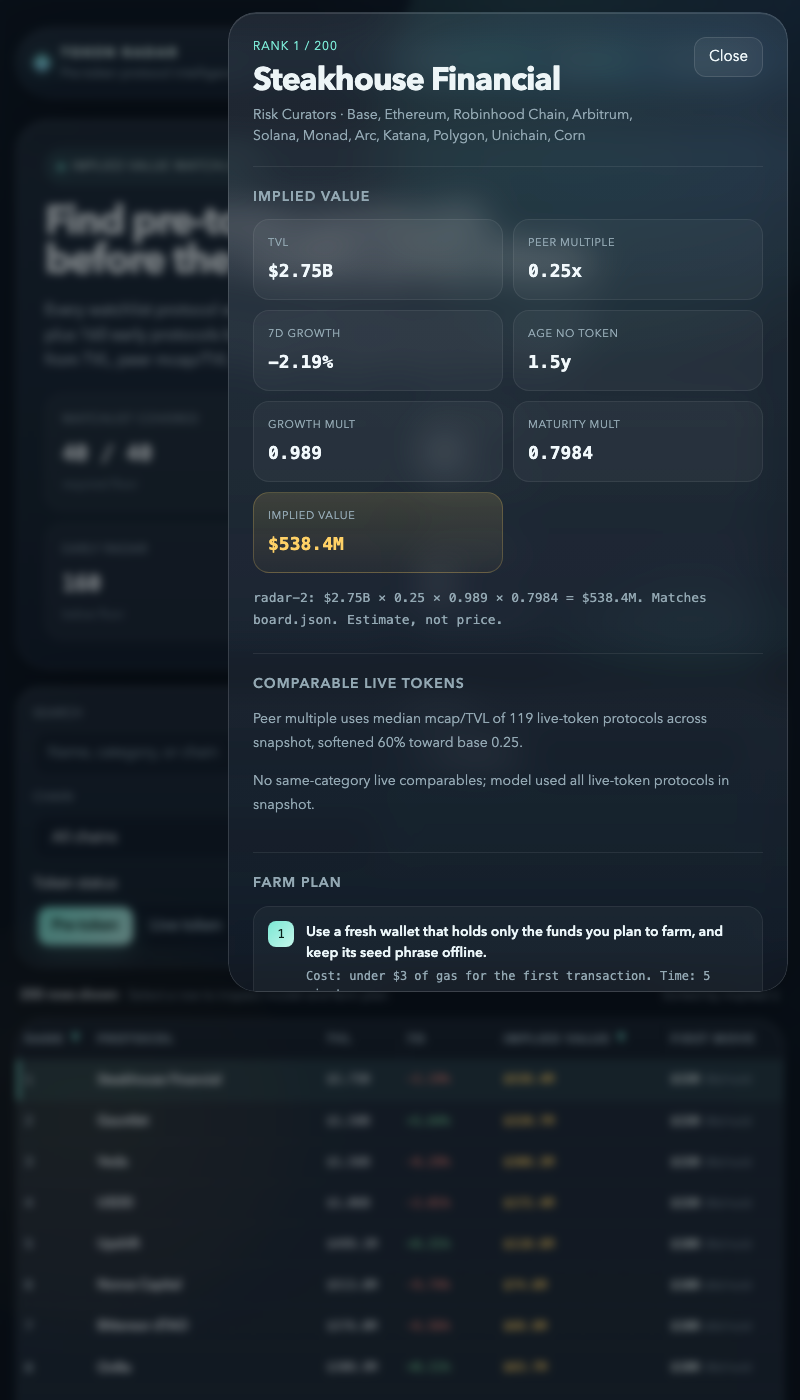
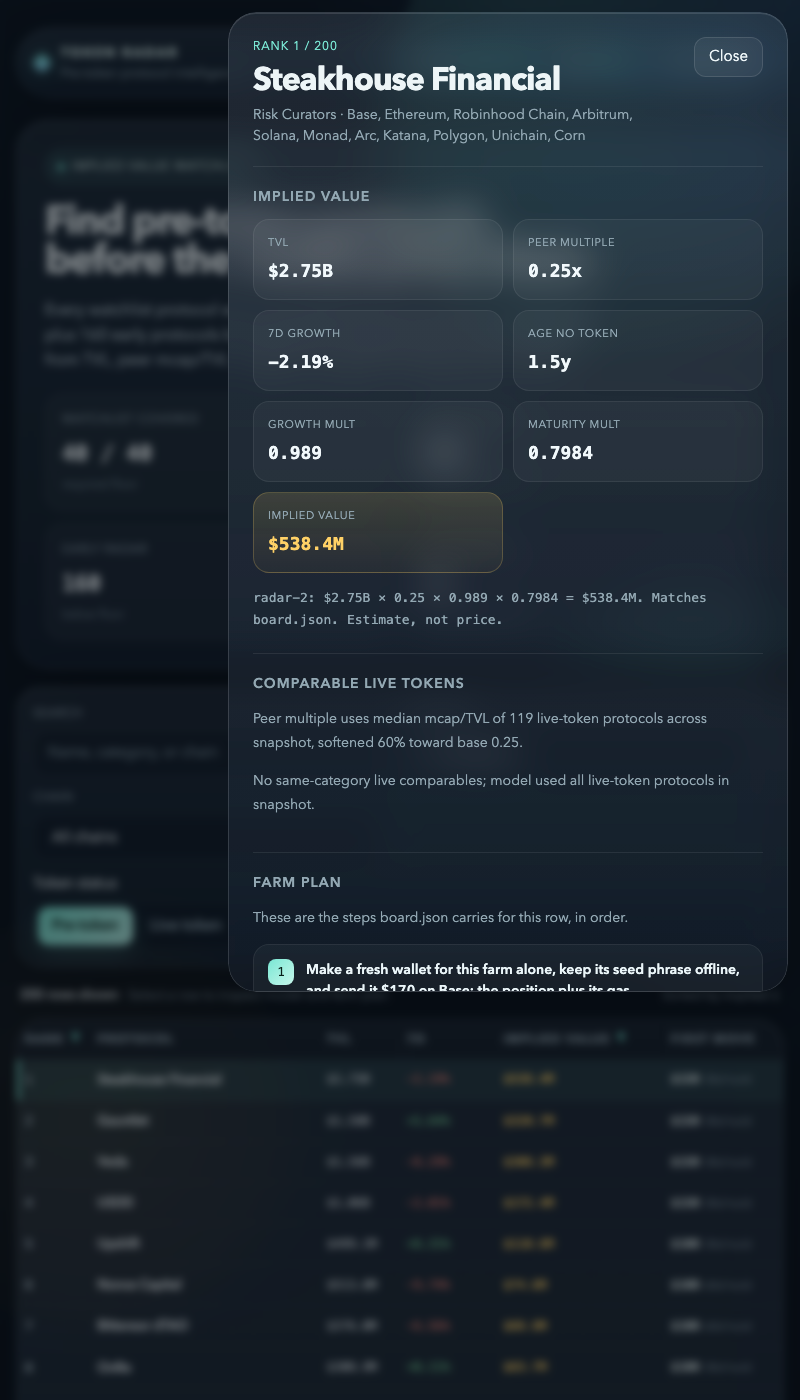
Show the board's own farm plan in the detail modal
The modal rebuilt a generic six-step plan in the page while board.json
already carried a protocol-specific seven-step plan, so the two could
disagree. data.js now passes the board's farm_steps through and the page
renders them as-is, with the duplicate generator removed. Scoring and
board.json are unchanged; the detail screenshot is retaken to match.

Changed region(s): [[0.3125, 0.645, 0.9062, 0.7064]]

diff --git a/dashboard/app.js b/dashboard/app.js
@@ -80,7 +80,6 @@
     return node;
   }
 
-  function chainOf(p) { return p.chains && p.chains.length > 0 ? p.chains[0] : 'its main chain'; }
   function capitalFor(p) {
     if (p.tvl_usd >= 5e9) return 250;
     if (p.tvl_usd >= 1e9) return 150;
@@ -93,41 +92,6 @@
     if (age < 365) return 45;
     return 30;
   }
-  function actionFor(p, capital, chain) {
-    var c = (p.category || '').toLowerCase();
-    var name = p.name;
-    if (c.indexOf('lend') >= 0 || c.indexOf('cdp') >= 0 || c.indexOf('collateral') >= 0) return 'Supply $' + capital + ' of USDC to ' + name + ' on ' + chain + ' and keep the position open.';
-    if (c.indexOf('dex') >= 0 || c.indexOf('yield') >= 0 || c.indexOf('leveraged farm') >= 0) return 'Provide $' + capital + ' of liquidity to ' + name + "'s main pool on " + chain + ' and keep the position open.';
-    if (c.indexOf('bridge') >= 0) return 'Bridge $' + capital + ' of USDC to ' + chain + ' through ' + name + ' and use the bridged funds in its app.';
-    if (c.indexOf('staking') >= 0 || c.indexOf('restak') >= 0) return 'Stake $' + capital + " of the chain's staking asset through " + name + ' and keep the receipt.';
-    if (c.indexOf('perpetual') >= 0 || c.indexOf('derivative') >= 0) return 'Deposit $' + capital + ' of USDC as margin on ' + name + ' and open one small hedge.';
-    if (c.indexOf('prediction') >= 0) return 'Fund $' + capital + ' and place one market position on ' + name + '.';
-    if (c.indexOf('curator') >= 0 || c.indexOf('allocator') >= 0) return 'Deposit $' + capital + ' into a ' + name + ' vault on ' + chain + ' and keep the shares.';
-    if (c.indexOf('stable') >= 0) return 'Mint or deposit $' + capital + ' of the stable asset through ' + name + ' on ' + chain + '.';
-    if (c.indexOf('rwa') >= 0) return 'Mint $' + capital + " of the protocol's yield asset on " + chain + ' and hold it.';
-    if (c.indexOf('insurance') >= 0) return 'Buy $' + capital + ' of cover from ' + name + ' on ' + chain + ' and keep the policy.';
-    return 'Deposit $' + capital + ' of USDC into ' + name + ' on ' + chain + ' and keep the position open.';
-  }
-  function stepText(step) {
-    var s = step.text + ' Cost: ' + step.cost + '. Time: ' + step.time + '.';
-    if (s.length > 600) s = s.slice(0, 596) + '...';
-    if (s.length < 20) s = s + " Hold the position and check the protocol's own page.";
-    return s;
-  }
-  function farmSteps(p) {
-    var chain = chainOf(p);
-    var capital = capitalFor(p);
-    var hold = holdDaysFor(p.age_days);
-    return [
-      { text: 'Use a fresh wallet that holds only the funds you plan to farm, and keep its seed phrase offline.', cost: 'under $3 of gas for the first transaction', time: '5 minutes' },
-      { text: actionFor(p, capital, chain), cost: '$' + capital + ' of capital and about $' + (capital >= 150 ? 8 : 4) + ' of gas', time: '15 minutes to set up' },
-      { text: 'Make one qualifying action each week, such as a deposit, a borrow, a swap or a vote.', cost: 'about $2 of gas a week', time: '10 minutes a week' },
-      { text: 'Hold the position for at least ' + hold + ' days so the activity is counted in more than one snapshot.', cost: 'the $' + capital + ' stays in the position', time: hold + ' days' },
-      { text: "Before you withdraw, open the protocol's own points or rewards page and claim only from the link it publishes.", cost: 'no fee to check, and never pay to claim', time: '10 minutes' },
-      { text: 'Write the wallet, the dates and every transaction in a farm log so you can repeat the position or unwind it.', cost: 'nothing but the log', time: '5 minutes' }
-    ].map(stepText);
-  }
-
   function readHash() {
     var hash = window.location.hash.replace(/^#/, '');
     if (!hash) return;
@@ -452,16 +416,22 @@
     }
     shell.appendChild(compSection);
 
-    var steps = farmSteps(row);
-    shell.appendChild(el('section', { class: 'section' },
+    var steps = row.farm_steps || [];
+    var planSection = el('section', { class: 'section' },
       el('h3', { text: 'Farm plan' }),
-      el('ol', { class: 'steps' }, steps.map(function (s) {
+      el('p', { class: 'detail-copy', text: 'These are the steps board.json carries for this row, in order.' })
+    );
+    if (steps.length === 0) {
+      planSection.appendChild(el('p', { class: 'detail-copy', text: 'This row carries no farm steps in the board.' }));
+    } else {
+      planSection.appendChild(el('ol', { class: 'steps' }, steps.map(function (s) {
         var at = s.indexOf(' Cost: ');
         var action = at >= 0 ? s.slice(0, at) : s;
         var tail = at >= 0 ? s.slice(at + 1) : '';
         return el('li', null, el('b', { text: action }), el('span', { class: 'cost', text: tail }));
-      }))
-    ));
+      })));
+    }
+    shell.appendChild(planSection);
 
     dialog.textContent = '';
     dialog.appendChild(shell);

diff --git a/lib/model.ts b/lib/model.ts
@@ -121,7 +121,7 @@ export interface BoardRow {
   farm_steps: string[];
 }
 
-/** The dashboard's compact view of one row, with farm plans generated in the page. */
+/** The dashboard's compact view of one row, with the farm plan board.json carries. */
 export interface RadarRow {
   rank: number;
   slug: string;
@@ -139,6 +139,7 @@ export interface RadarRow {
   peer_samples: number;
   growth_multiplier: number;
   maturity_multiplier: number;
+  farm_steps: string[];
 }
 
 /** A live-token protocol: it already trades, so the board shows the market's own value, not a model's. */
@@ -447,7 +448,7 @@ export function liveRows(snapshot: Snapshot): LiveRow[] {
     }));
 }
 
-/** A board row's compact form for data.js, with the farm plan generated in the page. */
+/** A board row's compact form for data.js, carrying the same farm plan board.json does. */
 export function radarRow(row: BoardRow): RadarRow {
   return {
     rank: row.rank,
@@ -466,6 +467,7 @@ export function radarRow(row: BoardRow): RadarRow {
     peer_samples: row.model.peer_samples,
     growth_multiplier: row.model.growth_multiplier,
     maturity_multiplier: row.model.maturity_multiplier,
+    farm_steps: row.farm_steps,
   };
 }
 

diff --git a/dashboard/index.html b/dashboard/index.html
@@ -15,7 +15,7 @@
   <div class="gridwash"></div>
 </div>
 <main id="board" tabindex="-1" aria-busy="true"></main>
-<script src="../data.js"></script>
-<script src="app.js?v=3"></script>
+<script src="../data.js?v=4"></script>
+<script src="app.js?v=4"></script>
 </body>
 </html>
